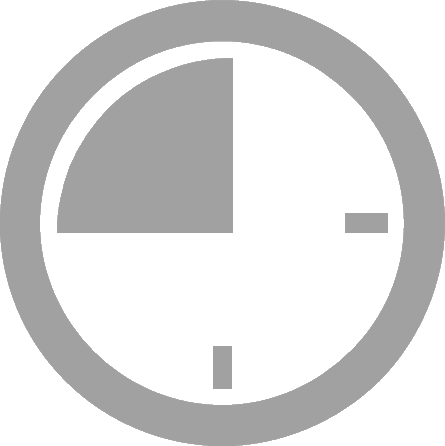
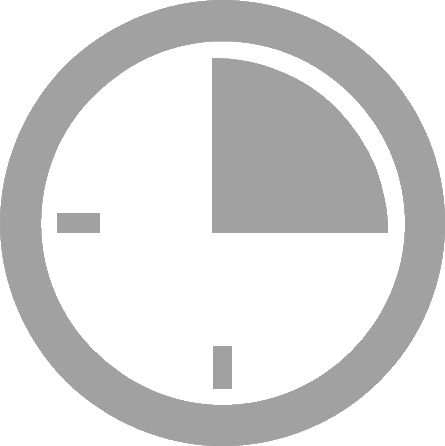
refactor: improve toggle animation

Changed region(s): [[0.0876, 0.1166, 0.4966, 0.5247], [0.5258, 0.1166, 0.8764, 0.5247], [0.9056, 0.4664, 0.9348, 0.5247]]

diff --git a/app/index.js b/app/index.js
@@ -18,6 +18,8 @@ var $timerBarEnd = $('#timerBarEnd');
 var $timerTime = $('#timerTime');
 var $timerDirection = $('#timerDirection');
 
+var timerLastDegree = 0;
+
 var timerType = "countdown";
 function toggleTimerType(){
   var scaleX;
@@ -38,29 +40,46 @@ function toggleTimerType(){
     transform: 'scaleX(' + scaleX +')'
   });
   
+  $timerTime.css({ animation: 'none' });
+  setTimeout(function() { $timerTime.css({ animation: '' }); });
+  
+  $timerDirection.css({ animation: 'none' });
+  setTimeout(function() { $timerDirection.css({ animation: '' }); });
+  
   $timerDirection.css({ 
-    transform: 'scaleX(' + scaleX + ')',
     backgroundImage: 'url(' + directionImage + ')'
   });
-  
+
+  timerLastDegree = 360.0 - timerLastDegree;
+
   startTimer();
 }
 
-var setSliderOrientation = function(deg){
-  var containerRadius = $timerDisk.width() / 2;
-  var pos = {
-    x: - Math.sin(deg * Math.PI / 180) * (containerRadius - 10) + containerRadius,
-    y: - Math.cos(deg * Math.PI / 180) * (containerRadius - 10) + containerRadius
-  }
+var updateTimerBar = function(timer, state){
+  timer.path.setAttribute('stroke', state.color);
+  
+  var containerRadius = $timerDisk.width() / 2.0;
+  var rotation = timer.value() * 360.0;
+  var position = {
+    x: - Math.sin(rotation * Math.PI / 180.0) * containerRadius + containerRadius,
+    y: - Math.cos(rotation * Math.PI / 180.0) * containerRadius + containerRadius
+  };
   $timerBarEnd.css({ 
     transformOrigin: 'top',
-    transform: 'translate(' + (pos.x - $timerBarEnd.width() / 2) + 'px,' + pos.y + 'px)' + ' rotate(' + -deg + 'deg)'
+    transform: 'translate(' + (position.x - $timerBarEnd.width() / 2.0) + 'px,' + position.y + 'px)' + ' rotate(' + -rotation + 'deg)'
   });
   $timerBarKnob.css({ 
-    transform: 'translate(' + (pos.x - $timerBarKnob.width() / 2 )+ 'px,' + (pos.y - $timerBarKnob.height() / 2) + 'px)' 
+    transform: 'translate(' + (position.x - $timerBarKnob.width() / 2.0) + 'px,' + (position.y - $timerBarKnob.height() / 2.0) + 'px)' 
   });
 }
 
+var updateTimerTime = function(timer, state){
+  var valueSeconds = Math.round(timer.value() * DURATION_IN_SECONDS);
+  if(valueSeconds != timer.valueSeconds){
+    $timerTime.text(seconds2Date(valueSeconds).toISOString().substr(14, 5));
+    timer.valueSeconds = valueSeconds;
+  }
+}
 
 var timer = new ProgressBar.Circle($timerDisk.get(0), {
   color: 'inherit', // inherit to support css styling
@@ -68,29 +87,17 @@ var timer = new ProgressBar.Circle($timerDisk.get(0), {
   trailColor: 'inherit', // inherit to support css styling
   strokeWidth: 37,
   duration: 1 * 1000,
-  from: { 
-    color: '#c11535',
-  },
-  to: { 
-    color: '#a21630',
-  },
-  // Set default step function for all animate calls
-  step: function(state, circle) {
-    circle.path.setAttribute('stroke', state.color);
-    var deg = circle.value() * 360;
-    setSliderOrientation(deg);
-    
-    var valueSeconds = Math.round(circle.value() * DURATION_IN_SECONDS);
-    if(valueSeconds != circle.valueSeconds){
-      $timerTime.text(seconds2Date(valueSeconds).toISOString().substr(14, 5));
-      circle.valueSeconds = valueSeconds;
-    }
+  from: { color: '#c11535' },
+  to:   { color: '#a21630' },
+  step: function(state, timer) {
+    updateTimerBar(timer, state);
+    updateTimerTime(timer, state);
   }
 });
 timer.svg.style.transform= 'scale(-1, 1)';
 
 var setTimer = function(deg){
-  var startValue = timerType == "countdown" ? 1.0 : 0.0;
+  var startValue = timerType == "countdown" ? 0.0 : 1.0;
   var newValue = Math.abs(startValue - (deg / 360.0));
   timer.set(newValue);
 }
@@ -109,7 +116,6 @@ var stopTimer = function(){
   timer.stop();
 }
 
-var oldSliderDeg = null;
 var countainerMousedown = false;
 $timerDisk
   .bind('mousedown touchstart', function(e) {
@@ -126,12 +132,17 @@ $timerDisk
       };
       var containerRadius = $timerDisk.width() / 2;
       var atan = Math.atan2(movePos.x - containerRadius, movePos.y - containerRadius);
-      var deg = -atan / (Math.PI / 180.0) + 180.0;
+      var deg = atan / (Math.PI / 180.0) + 180.0;
 
-      if (oldSliderDeg === null ||  Math.abs(deg - oldSliderDeg) <= 60){
-        setTimer(deg);
-        oldSliderDeg = deg;
-      }
+      var targetDeg = deg;
+      if (timerLastDegree < 90.0 && deg > 270.0 ){
+        targetDeg = 0.0;
+      } else if (timerLastDegree > 270.0 && deg < 90.0 ){
+        targetDeg = 360.0;
+      } 
+      
+      timerLastDegree = targetDeg;
+      setTimer(targetDeg);
     }
   })
   .bind('mouseup touchend', function(e) {
@@ -139,8 +150,11 @@ $timerDisk
     startTimer();
   });
 
-$timerTime.bind('mousedown touchstart', toggleTimerType);
+$timerTime.bind('click tap', toggleTimerType);
 
-// Initial Time
-timer.animate(10/60, startTimer);
+// Initial Time 10 Minutes
+timer.animate(60/360, function() {
+  setTimer(60);
+  startTimer();
+});
 

diff --git a/app/index.css b/app/index.css
@@ -5,6 +5,12 @@ div {
   box-sizing: border-box;
 }
 
+@keyframes transitionScaleX {
+  0%   { transform: scaleX(1); }
+  50%  { transform: scaleX(0); }
+  100% { transform: scaleX(1); }
+}
+
 #timerContainer {
   position: relative;
   width: 80vmin;
@@ -24,6 +30,21 @@ div {
   transition: all 1.5s cubic-bezier(.42,0,.58,1);
 }
 
+#timerDiskHole {
+  display: inline-block;
+  position: absolute;
+  width: 20%;
+  height: 20%;
+  left: 40%;
+  top: 40%;
+  border-radius: 50%;
+  box-shadow: inset 0px 0px 20px 5px rgba(0,0,0,0.5);
+  border-style: solid;
+  border-color: rgb(40, 40, 40);
+  border-width: 4px;
+  z-index: 3;
+}
+
 #timerDisk > svg > path:nth-child(1) {
  stroke: #2c333f;
 }
@@ -36,14 +57,14 @@ div {
   left: 50%;
   z-index: 2;
   background: #292929;
-  box-shadow: -6px -7px 15px 8px rgba(0,0,0,0.5);
+  box-shadow: -15px 3px 20px 1px rgba(0,0,0,0.5);
   clip: rect(-53px 6px 1000 -1000px);
 }
 
 #timerBarEnd {
   position: absolute;
   width: 8px;
-  height: 37.5%;
+  height: 38.5%;
   z-index: 2;
   background: #292929;
 }
@@ -71,6 +92,8 @@ div {
   font-family: 'Helvetica';
   font-size: 4.5vmin;
   border-radius: 50%;
+  animation: transitionScaleX 1.5s;
+  animation-timing-function: cubic-bezier(.42,0,.58,1);
 }
 
 #timerDirection {
@@ -82,6 +105,7 @@ div {
   background-image: url("count_down.png");
   background-size: contain;
   background-repeat: no-repeat;
-  transform: scaleX(1);
   transition: all 1.5s cubic-bezier(.42,0,.58,1);
+  animation: transitionScaleX 1.5s;
+  animation-timing-function: cubic-bezier(.42,0,.58,1);
 }

diff --git a/app/index.html b/app/index.html
@@ -11,6 +11,7 @@
 <body>
   <div id="timerContainer">
     <div id="timerDisk">
+      <div id="timerDiskHole"></div>
       <div id="timerGroundEnd"></div>
       <div id="timerBarEnd"></div>
       <div id="timerBarKnob"></div>
